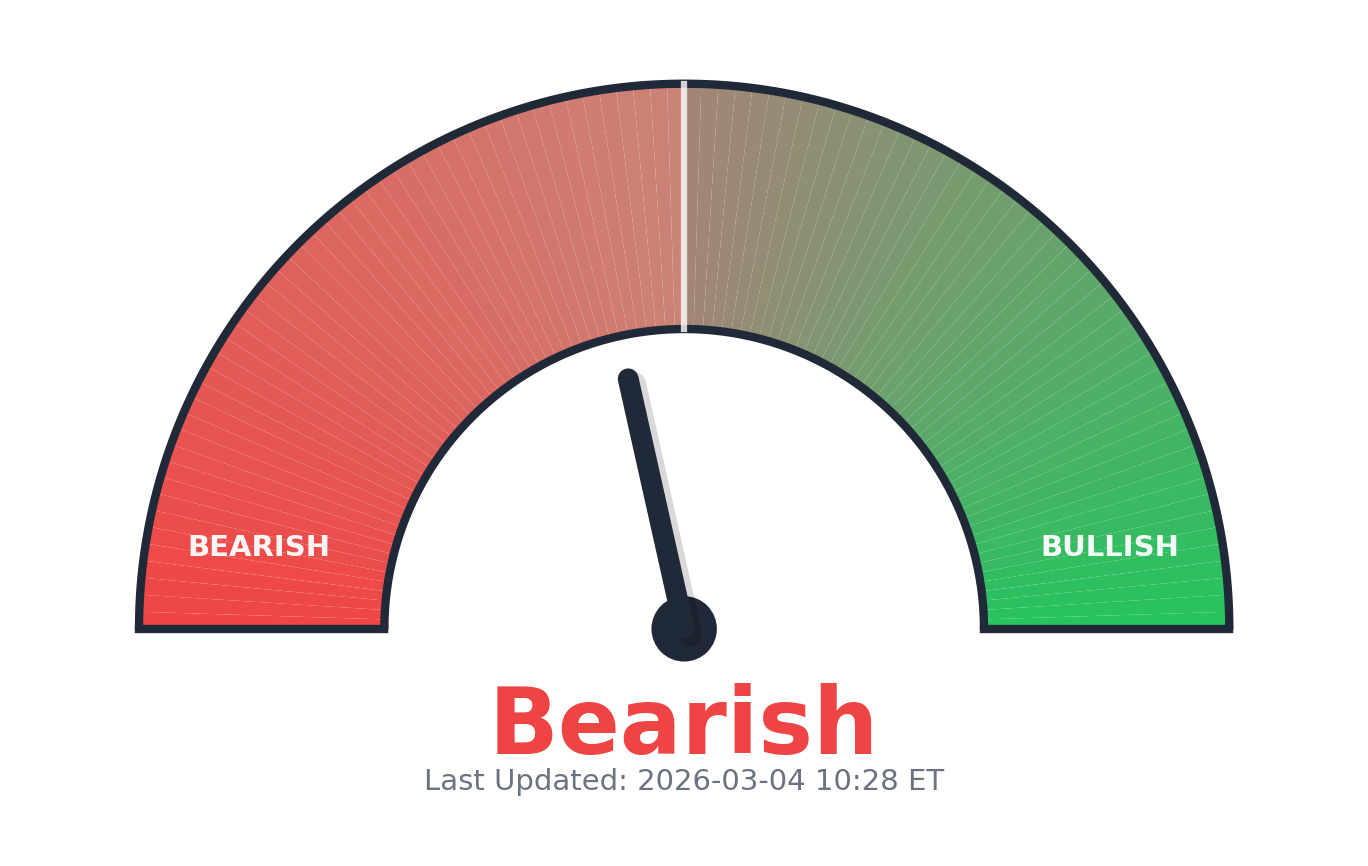
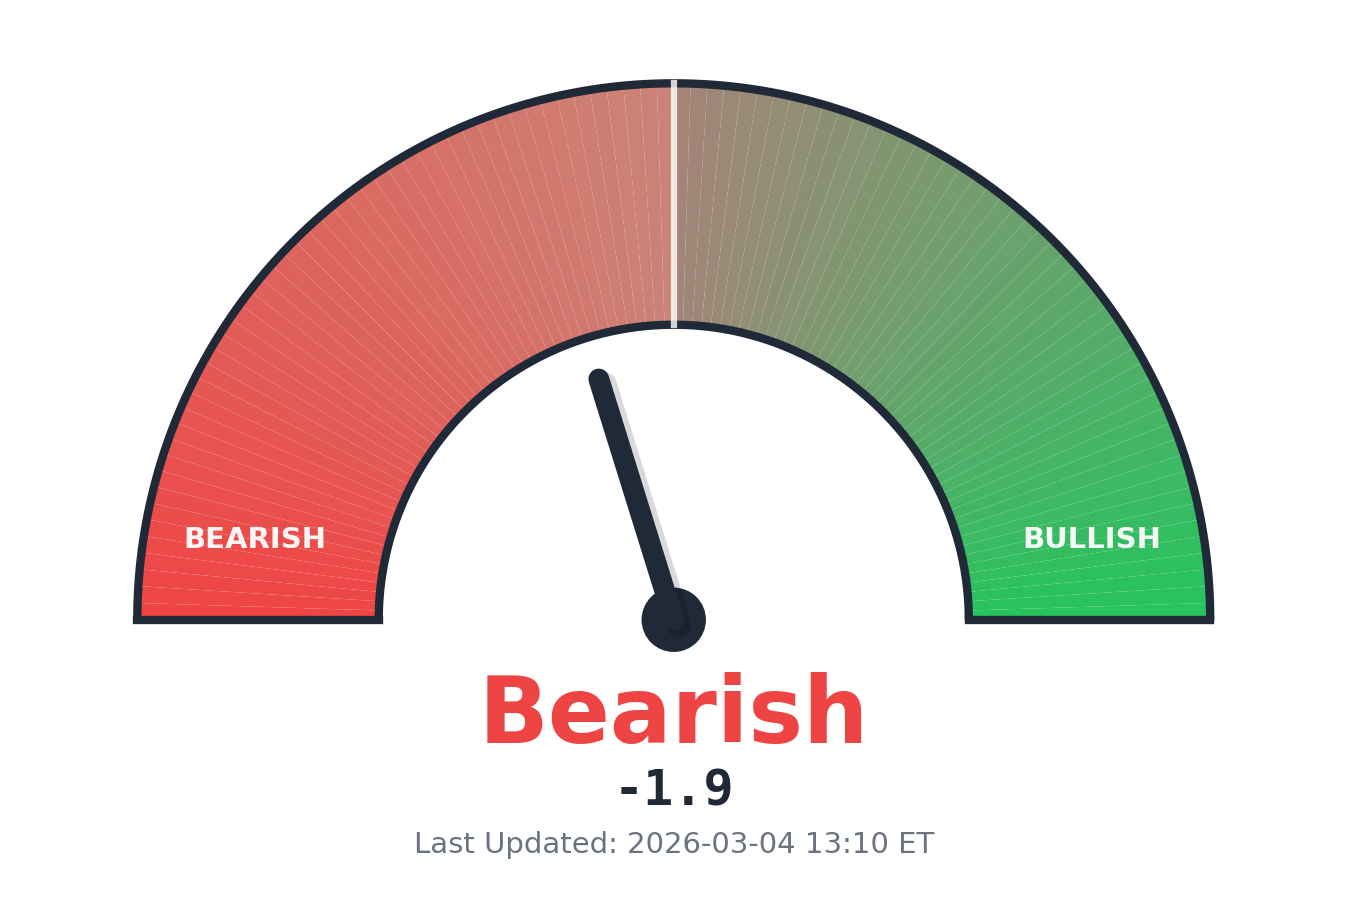
Simplify regime strength display

Changed region(s): [[0.0935, 0.0624, 0.9042, 0.7483], [0.3118, 0.5924, 0.686, 0.9353]]

diff --git a/src/components/RegimeStats.tsx b/src/components/RegimeStats.tsx
@@ -40,18 +40,11 @@ function getStrengthLabel(scaledStrength: number): string {
   return `Weak ${direction}`;
 }
 
-function getDistanceToFlip(scaledStrength: number): string {
-  const absValue = Math.abs(scaledStrength);
-  if (absValue < 1) return "Near threshold";
-  return `${absValue.toFixed(1)} from threshold`;
-}
-
 export default function RegimeStats({ data }: RegimeStatsProps) {
   const [showStrengthInfo, setShowStrengthInfo] = useState(false);
 
   const scaledStrength = scaleStrength(data.regimeStrength);
   const strengthLabel = getStrengthLabel(scaledStrength);
-  const distanceText = getDistanceToFlip(scaledStrength);
 
   const stats = [
     {
@@ -146,22 +139,16 @@ export default function RegimeStats({ data }: RegimeStatsProps) {
           {strengthLabel}
         </p>
 
-        {/* Numeric value and change */}
-        <div className="flex items-center gap-2 mt-1">
-          <span
-            className={`text-xl font-bold font-mono ${
-              data.currentRegime === "bullish"
-                ? "text-emerald-600"
-                : "text-red-600"
-            }`}
-          >
-            {scaledStrength >= 0 ? "+" : ""}{scaledStrength.toFixed(1)}
-          </span>
-          <span className="text-xs text-gray-500">/ 10</span>
-        </div>
-
-        {/* Distance to threshold */}
-        <p className="text-xs text-gray-500 mt-1">{distanceText}</p>
+        {/* Numeric value */}
+        <p
+          className={`text-2xl font-bold font-mono mt-1 ${
+            data.currentRegime === "bullish"
+              ? "text-emerald-600"
+              : "text-red-600"
+          }`}
+        >
+          {scaledStrength >= 0 ? "+" : ""}{scaledStrength.toFixed(1)}
+        </p>
       </div>
     </div>
   );
